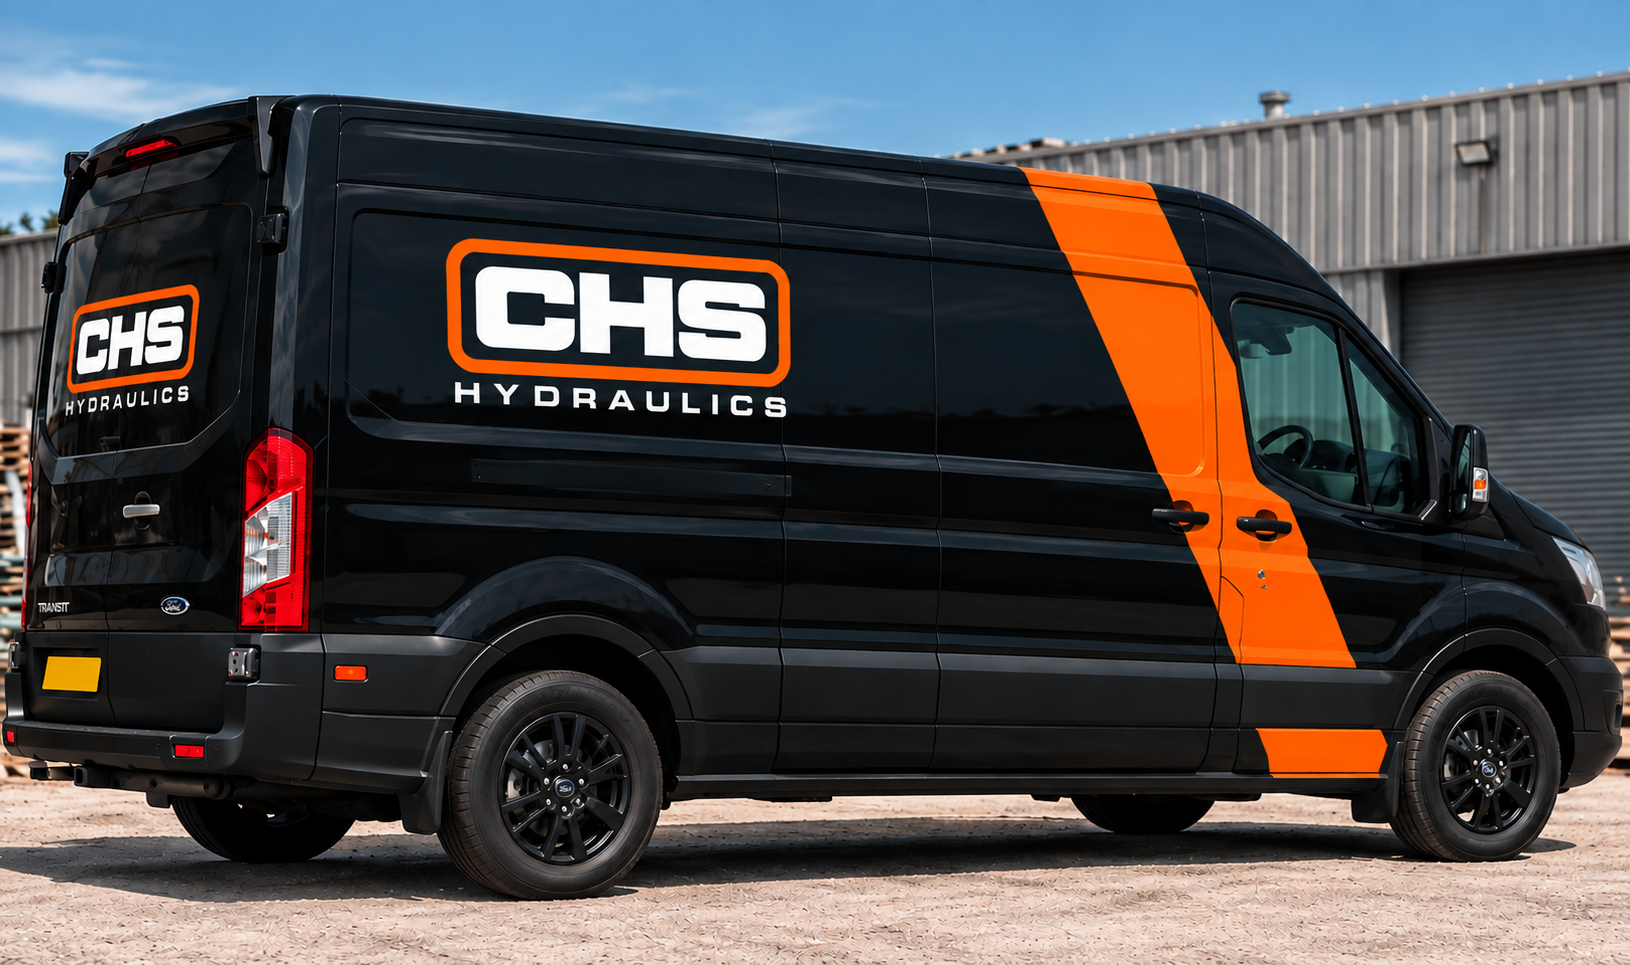
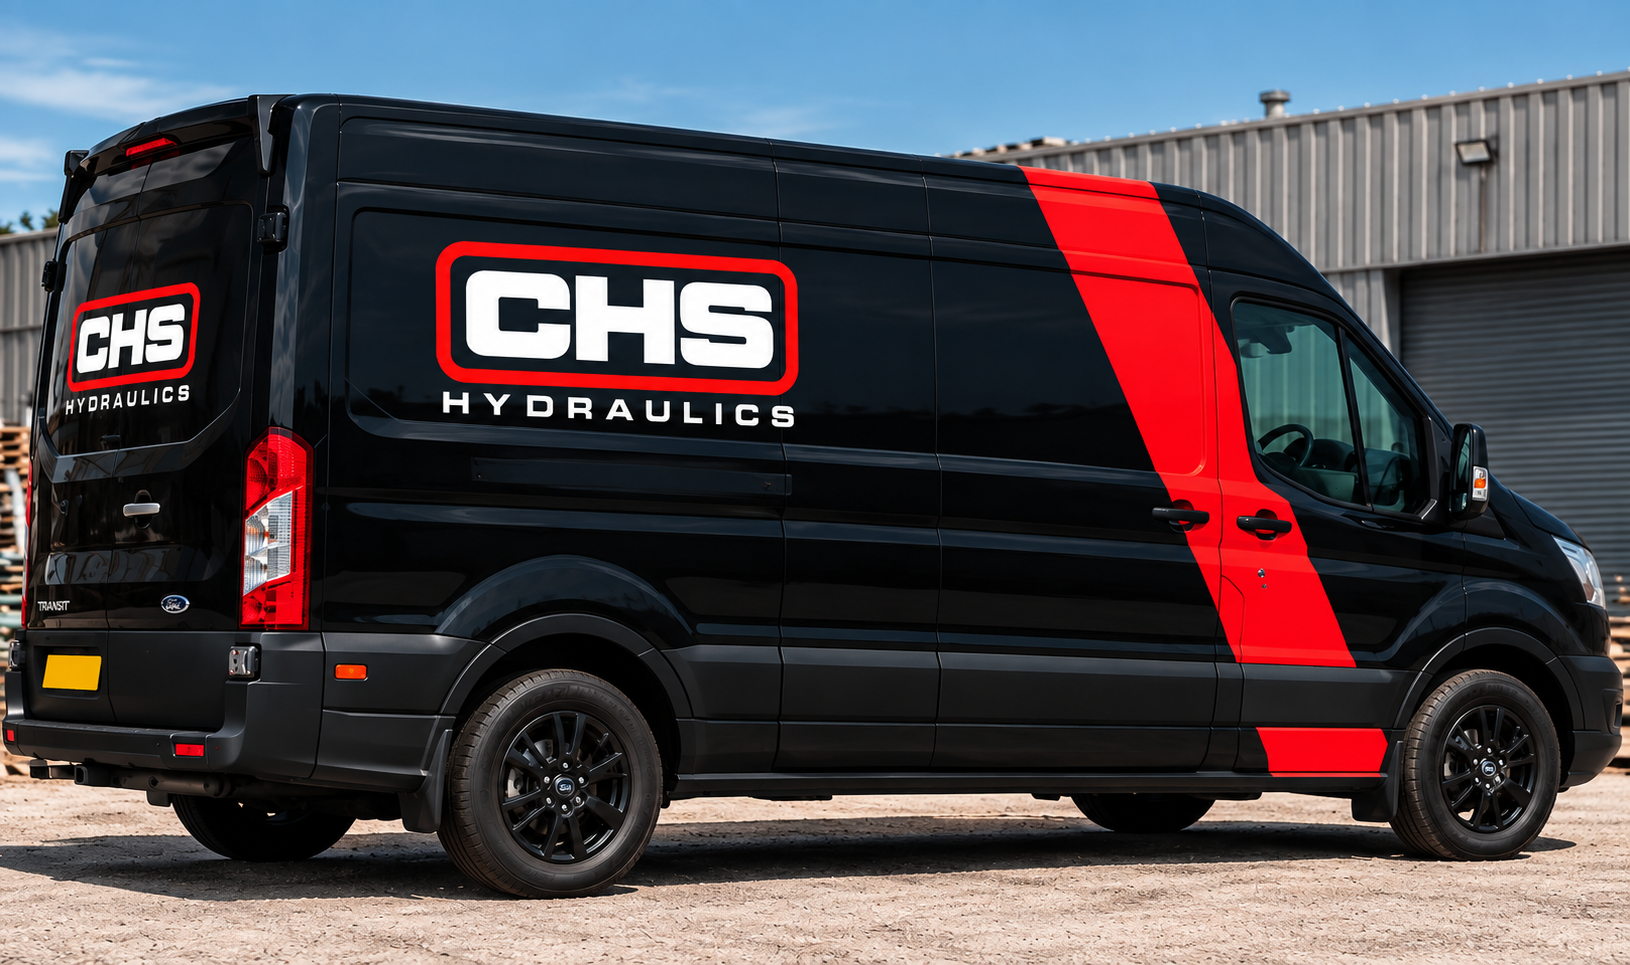
app is now red only

diff --git a/app/assets/css/main.css b/app/assets/css/main.css
@@ -9,33 +9,9 @@
   --font-sans: "Roboto", "Helvetica Neue", Arial, sans-serif;
   --font-display: "Lato", "Helvetica Neue", Arial, sans-serif;
 
-  /* Brand orange: 500 is the CHS orange (#FD5D01) for buttons, panels and accents.
-     Small orange text needs 700 on light backgrounds (5.1–5.6:1) and 400 on dark ones
-     (7.3:1); 500 itself only reaches 3.1:1 against white, so never use it for small text
-     on light backgrounds. */
-  --color-chs-50: #fff4ed;
-  --color-chs-100: #ffe6d4;
-  --color-chs-200: #ffc9a8;
-  --color-chs-300: #ffa270;
-  --color-chs-400: #fe7a36;
-  --color-chs-500: #fd5d01;
-  --color-chs-600: #e04f00;
-  --color-chs-700: #b93f02;
-  --color-chs-800: #933309;
-  --color-chs-900: #772d0b;
-  --color-chs-950: #401303;
-
-  /* Near-black backgrounds used for the header, hero and dark bands. */
-  --color-ink-700: #2a3134;
-  --color-ink-800: #1c2124;
-  --color-ink-900: #15191b;
-  --color-ink-950: #0d1012;
-}
-
-/* Brand A/B test: the red variant. <html data-brand="red"> is set before first paint by the
-   script in app.vue; everything built on the chs-* tokens (and Nuxt UI's primary) follows.
-   Same text rules as orange: 700 for small text on light, 400 on dark. */
-:root[data-brand="red"] {
+  /* Brand red: 500 is the CHS red (#E5101F) for buttons, panels and accents. White text on
+     500 is 4.8:1 (passes AA). Small red text uses 700 on light backgrounds (7.2:1; 500 drops
+     below 4.5:1 on grey panels) and 400 on dark ones (5.6:1). */
   --color-chs-50: #fff1f2;
   --color-chs-100: #ffe0e2;
   --color-chs-200: #ffc6ca;
@@ -47,13 +23,12 @@
   --color-chs-800: #910c16;
   --color-chs-900: #780f18;
   --color-chs-950: #42030a;
-}
 
-/* <BrandPicture> renders one picture per variant; only the active brand's is shown
-   (hidden lazy images aren't downloaded). Orange is the default, including without JS. */
-:root[data-brand="red"] .brand-only-orange,
-:root:not([data-brand="red"]) .brand-only-red {
-  display: none;
+  /* Near-black backgrounds used for the header, hero and dark bands. */
+  --color-ink-700: #2a3134;
+  --color-ink-800: #1c2124;
+  --color-ink-900: #15191b;
+  --color-ink-950: #0d1012;
 }
 
 :root {

diff --git a/app/app.config.ts b/app/app.config.ts
@@ -2,8 +2,6 @@
 // Translatable details (location, service area, opening hours) live in app/content/<locale>/.
 // Placeholder values: replace before launch (see README). These must match the
 // Google Business Profile and directory listings exactly (name, address, phone).
-export type BrandVariant = "orange" | "red"
-
 export default defineAppConfig({
   ui: {
     colors: {
@@ -19,20 +17,6 @@ export default defineAppConfig({
           "uppercase text-xs font-extrabold tracking-wide text-highlighted",
       },
     },
-  },
-  // Brand colour A/B test (see AGENTS.md "Brand A/B test"). With `abTest` on, each visitor
-  // is randomly assigned a variant on first visit and keeps it (localStorage). `?brand=red`
-  // or `?brand=orange` forces one. Turn `abTest` off to show everyone `default`.
-  brand: {
-    abTest: true,
-    default: "orange" as BrandVariant,
-    variants: ["orange", "red"] as BrandVariant[],
-    // Images that differ per brand: default src -> variant src. <BrandPicture> swaps them.
-    images: {
-      "/images/chs-logo-white.png": { red: "/images/chs-logo-white-red.png" },
-      "/images/hero.jpg": { red: "/images/hero-red.jpg" },
-      "/images/service-van.png": { red: "/images/service-van-red.png" },
-    } as Record<string, Partial<Record<BrandVariant, string>>>,
   },
   // Features not live yet. Off = hidden everywhere, with replacement copy where needed.
   features: {

diff --git a/app/app.vue b/app/app.vue
@@ -1,40 +1,3 @@
-<script setup lang="ts">
-const { brand } = useAppConfig()
-
-// Brand A/B test: pick the visitor's variant and set <html data-brand> before first paint,
-// so there's no flash of the wrong colours or logo. Order of precedence: ?brand= in the URL
-// (forces and remembers a variant), a previous assignment in localStorage, then a random
-// pick (when the test is on) or the default.
-const brandScript = `(() => {
-  const config = ${JSON.stringify({ abTest: brand.abTest, fallback: brand.default, variants: brand.variants })}
-  const key = "chs-brand"
-  const valid = (v) => config.variants.includes(v)
-  let variant = new URLSearchParams(location.search).get("brand")
-  try {
-    if (!valid(variant)) variant = localStorage.getItem(key)
-    if (!valid(variant))
-      variant = config.abTest
-        ? config.variants[Math.floor(Math.random() * config.variants.length)]
-        : config.fallback
-    localStorage.setItem(key, variant)
-  } catch {
-    if (!valid(variant)) variant = config.fallback
-  }
-  document.documentElement.dataset.brand = variant
-})()`
-
-useHead({
-  script: [
-    {
-      key: "brand",
-      innerHTML: brandScript,
-      tagPosition: "head",
-      tagPriority: "critical",
-    },
-  ],
-})
-</script>
-
 <template>
   <UApp>
     <NuxtLayout>

diff --git a/app/plugins/analytics.client.ts b/app/plugins/analytics.client.ts
@@ -5,7 +5,6 @@ import { init, track as plausibleTrack } from "@plausible-analytics/tracker"
 // previews don't pollute the stats. Exclude your own visits by running
 // `localStorage.plausible_ignore = 'true'` in the browser console on the live site.
 //
-// Every event also carries a `brand` property (orange/red) for the brand A/B test.
 // Custom events sent (add each as a goal in Plausible to see it on the dashboard):
 // - "Phone Call"   click on any tel: link          props: page
 // - "Email Click"  click on any mailto: link       props: page
@@ -22,11 +21,6 @@ export default defineNuxtPlugin(() => {
     init({
       domain,
       outboundLinks: true,
-      // Brand A/B variant on every event (set on <html> by the script in app.vue), so
-      // pageviews and goals can be compared per brand in Plausible.
-      customProperties: () => ({
-        brand: document.documentElement.dataset.brand ?? "orange",
-      }),
     })
 
     document.addEventListener("click", (event) => {

diff --git a/app/pages/index.vue b/app/pages/index.vue
@@ -18,7 +18,7 @@ const trustIcons = [
       class="relative isolate overflow-hidden bg-ink-950 text-white"
       aria-labelledby="hero-title"
     >
-      <BrandPicture
+      <NuxtPicture
         src="/images/hero.jpg"
         :alt="content.home.heroImageAlt"
         sizes="524px"
@@ -233,7 +233,7 @@ const trustIcons = [
       aria-labelledby="onsite-title"
     >
       <div class="self-stretch md:col-span-2 lg:col-span-1">
-        <BrandPicture
+        <NuxtPicture
           src="/images/service-van.png"
           :alt="content.home.vanAlt"
           sizes="444px"

diff --git a/app/components/ServiceCard.vue b/app/components/ServiceCard.vue
@@ -11,7 +11,7 @@ const localePath = useLocalePath()
     class="group relative flex flex-col overflow-hidden rounded-box bg-white shadow-[0_10px_30px_rgba(15,22,26,0.09)] transition duration-200 hover:-translate-y-1 hover:shadow-[0_16px_38px_rgba(15,22,26,0.15)]"
   >
     <div class="relative aspect-220/130 bg-ink-950">
-      <BrandPicture
+      <NuxtPicture
         :src="service.image"
         :alt="service.alt"
         sizes="220px"

diff --git a/app/components/AppFooter.vue b/app/components/AppFooter.vue
@@ -37,7 +37,7 @@ const linkClass = "transition-colors hover:text-white focus-visible:text-white"
       class="grid gap-8 py-12 sm:grid-cols-2 lg:grid-cols-[1.3fr_1.2fr_0.8fr_1fr]"
     >
       <div class="sm:col-span-2 lg:col-span-1">
-        <BrandPicture
+        <NuxtPicture
           src="/images/chs-logo-white.png"
           alt="CHS Hydraulics"
           sizes="130px"

diff --git a/app/components/PageHero.vue b/app/components/PageHero.vue
@@ -8,7 +8,7 @@ defineProps<{ labelledby: string }>()
     :aria-labelledby="labelledby"
   >
     <!-- A real <img> (not a CSS background) so the browser finds and preloads the LCP image early. -->
-    <BrandPicture
+    <NuxtPicture
       src="/images/hero.jpg"
       alt=""
       sizes="524px"

diff --git a/app/pages/about.vue b/app/pages/about.vue
@@ -55,7 +55,7 @@ const crumbs = computed(() => [
             </p>
           </div>
         </div>
-        <BrandPicture
+        <NuxtPicture
           src="/images/service-van.png"
           :alt="page.vanAlt"
           sizes="444px"

diff --git a/app/components/AppHeader.vue b/app/components/AppHeader.vue
@@ -108,7 +108,7 @@ onBeforeUnmount(() => {
     }"
   >
     <template #title>
-      <BrandPicture
+      <NuxtPicture
         src="/images/chs-logo-white.png"
         alt="CHS Hydraulics"
         sizes="120px"

diff --git a/AGENTS.md b/AGENTS.md
@@ -44,10 +44,9 @@ app/
   assets/icons/           Custom SVG icons, used as `i-chs-<name>`
   layouts/default.vue     Skip link, header, footer, site-wide LocalBusiness JSON-LD
   components/
-    AppHeader.vue         UHeader: desktop nav with gliding orange indicator, slide-over mobile menu
+    AppHeader.vue         UHeader: desktop nav with gliding red indicator, slide-over mobile menu
     AppFooter.vue
     PageHero.vue          Dark hero with preloaded image, used by every inner page
-    BrandPicture.vue      NuxtPicture that swaps images per brand A/B variant
     ServiceCard.vue       Card used on the homepage and /services
     CtaBand.vue           "Let's keep your equipment moving" call-to-action strip
     ReviewsSection.vue    Google reviews + testimonials (hidden in production until reviews exist)
@@ -115,21 +114,13 @@ public/
 - `<UptimePromise>` ("on-site within {hours} hours or the call-out's free") renders only when `offer.uptimePromise` is true. It's off until CHS can reliably deliver it; a guarantee they can't keep breaches consumer law.
 - `<OpenStatus>` shows a live open/closed line (UK time, from `business.openingHours`) in the hero and CTA band. It renders client-side only because pages are prerendered.
 
-### Brand A/B test (orange vs red)
-
-- Configured in `app.config.ts` → `brand` (`abTest`, `default`, `variants`, `images`). A tiny script in `app.vue` runs in `<head>` before first paint: `?brand=red|orange` forces (and remembers) a variant, otherwise a previous assignment in localStorage (`chs-brand`), otherwise a random pick (or `default` if `abTest` is off). It sets `<html data-brand>`.
-- Colours: `:root[data-brand="red"]` in `main.css` overrides the `chs-*` scale, so every `chs`/`primary` class follows. **Never hard-code a brand hex value**; always use the tokens.
-- Images: use `<BrandPicture>` (same props as `NuxtPicture`) for any image listed in `brand.images`. It renders one picture per variant, and CSS (`.brand-only-<variant>`) shows the active one. Lazy images for the hidden variant aren't downloaded. Eager ones (logos, hero) are, which keeps both variants equally fast.
-- Red image variants (`*-red.*`) were made by hue-shifting the orange originals. Regenerate them if the originals change.
-- Plausible gets `brand` on every event; compare goals per variant by filtering on that property.
-
 ### Styling
 
 - **Tailwind utilities in templates.** No component `<style>` blocks, no new global CSS classes. Shared patterns live in `main.css` as `@utility` (`kicker`, `heading-display`).
 - **Theme tokens** in `main.css`:
-  - `chs-50…950`: brand orange. `primary` = `chs`, with 500 (`#FD5D01`) as the brand colour for buttons, panels and accents.
-  - **Small orange text:** use `text-chs-700` on light backgrounds (5.1–5.6:1) and `text-chs-400` on dark ones (7.3:1). `text-primary` (500) only reaches 3.1:1 on white, so never use it for small text on light backgrounds.
-  - **Errors use Nuxt UI's `error` / Tailwind `red`**, never the brand scale.
+  - `chs-50…950`: brand red. `primary` = `chs`, with 500 (`#E5101F`) as the brand colour for buttons, panels and accents. **Never hard-code a brand hex value**; always use the tokens.
+  - **Small red text:** use `text-chs-700` on light backgrounds (7.2:1) and `text-chs-400` on dark ones (5.6:1). `text-primary` (500) passes on white (4.8:1) but not on grey panels, so prefer 700 for small text on light backgrounds. White text on `bg-primary` is fine (4.8:1).
+  - **Errors use Nuxt UI's `error` / Tailwind `red`**, never the brand scale. The brand is red too, so always pair error colour with an icon or message text rather than relying on colour alone.
   - `ink-700…950`: near-blacks. The header, hero and dark bands use `ink-950` (`#0D1012`) / `ink-900`.
   - `font-display`: Lato, for headings via `heading-display`.
 - **Corners:** boxes and cards (anything with a background panel, card shadow or top border: service cards, review cards, info panels, sidebar boxes, icon badges, framed photos) use **`rounded-box`** (6px, `--radius-box` in `main.css`). Full-width bands stay square. Add `overflow-hidden` when a card has an image edge to edge.

diff --git a/README.md b/README.md
@@ -40,10 +40,6 @@ Add real Google reviews and customer testimonials (with permission) to `app/data
 
 The homepage hero also shows a compact Google rating line once `googleRating` reaches the minimum in `ratingBadgeThreshold` (10+ reviews at 4.5+ stars by default).
 
-## Brand A/B test
-
-Visitors are randomly shown the orange or red branding (colours, logo and brand photos) and keep it on return visits. Add `?brand=red` or `?brand=orange` to any URL to force a version (it's remembered). Settings live in `app/app.config.ts` → `brand`; set `abTest: false` to show everyone the default. In Plausible, add `brand` as a custom property and compare the `Phone Call` / `Enquiry Sent` goals per variant.
-
 ## Analytics
 
 [Plausible](https://plausible.io) (cookie-free, so no consent banner needed), wired up in `app/plugins/analytics.client.ts`. It only runs when the domain is set at build time:
